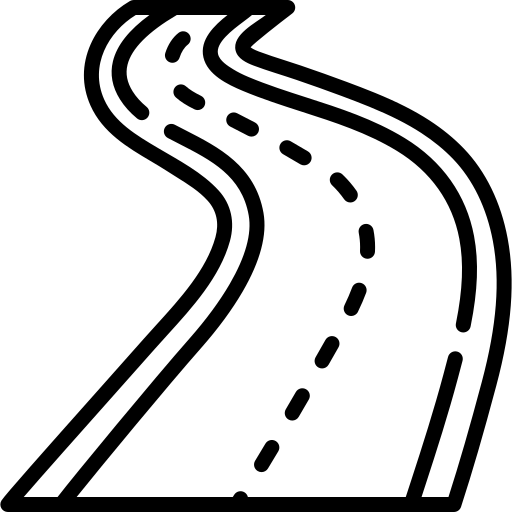
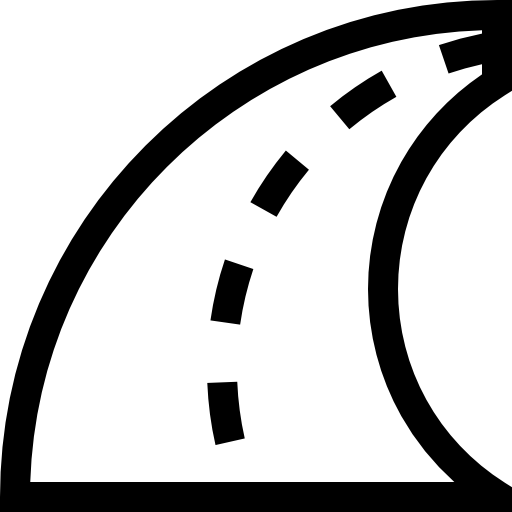
added tab navigator

diff --git a/src/navigation/index.js b/src/navigation/index.js
@@ -1,19 +1,19 @@
 import React from 'react';
+import {Image} from 'react-native';
 import {NavigationContainer} from '@react-navigation/native';
 import {createStackNavigator} from '@react-navigation/stack';
-// import {createBottomTabNavigator} from '@react-navigation/bottom-tabs';
+import {createBottomTabNavigator} from '@react-navigation/bottom-tabs';
 import {colorTheme} from '../theme/Theme';
 
 import WelcomeScreen from '../screens/WelcomeScreen';
 import SelectUserRole from '../screens/UserRoles';
 import DiseasedImageUploadScreen from '../screens/DiseasedImageUploadScreen';
 import SelectedImages from '../screens/SelectedImages';
-// import DogsOnRoads from '../screens/DogsOnRoads';
-// import DogsInShelters from '../screens/DogsInShelters';
-// import {Image} from 'react-native';
+import DogsOnRoads from '../screens/DogsOnRoads';
+import DogsInShelters from '../screens/DogsInShelters';
 
 const stack = createStackNavigator();
-// const Tab = createBottomTabNavigator();
+const Tab = createBottomTabNavigator();
 
 const StackNavigation = () => {
   return (
@@ -59,53 +59,61 @@ const StackNavigation = () => {
             headerTitleStyle: {fontFamily: 'Lexend-Bold'},
           }}
         />
-        {/* <stack.Screen
-            name="TabNavigator"
-            component={TabNavigator}
-            options={{
-              headerShown: false,
-              // headerTitle: '',
-              // headerTintColor: colorTheme.primaryColor,
-              // headerTransparent: true,
-              // headerTitleStyle: {fontFamily: 'Lexend-Bold'},
-            }}
-          /> */}
+        <stack.Screen
+          name="TabNavigator"
+          component={TabNavigator}
+          options={{
+            headerShown: true,
+            headerTitle: '',
+            headerTintColor: colorTheme.primaryColor,
+            headerTransparent: true,
+            headerTitleStyle: {fontFamily: 'Lexend-Bold'},
+          }}
+        />
       </stack.Navigator>
     </NavigationContainer>
   );
 };
 
-// const TabNavigator = () => {
-//   return (
-//     <Tab.Navigator initialRouteName="Shelters">
-//       <Tab.Screen
-//         name="Shelters"
-//         component={DogsInShelters}
-//         options={{
-//           title: 'Shelters',
-//           tabBarIcon: (
-//             <Image
-//               source={require('../images/shelters.png')}
-//               style={{width: 20, height: 20}}
-//             />
-//           ),
-//         }}
-//       />
-//       <Tab.Screen
-//         name="Roads"
-//         component={DogsOnRoads}
-//         options={{
-//           title: 'Streets',
-//           tabBarIcon: (
-//             <Image
-//               source={require('../images/roads.png')}
-//               style={{width: 20, height: 20}}
-//             />
-//           ),
-//         }}
-//       />
-//     </Tab.Navigator>
-//   );
-// };
+const TabNavigator = () => {
+  return (
+    <Tab.Navigator
+      initialRouteName="Shelters"
+      screenOptions={({route}) => ({
+        tabBarActiveTintColor: 'blue',
+        tabBarIcon: ({color, size}) => {
+          let iconSource;
+          if (route.name === 'Shelters') {
+            iconSource = require('../images/shelters.png');
+          } else if (route.name === 'Roads') {
+            iconSource = require('../images/roads.png');
+          }
+          return (
+            <Image
+              source={iconSource}
+              style={{width: size, height: size, tintColor: color}}
+            />
+          );
+        },
+      })}>
+      <Tab.Screen
+        name="Shelters"
+        component={DogsInShelters}
+        options={{
+          title: '',
+          headerTransparent: true,
+        }}
+      />
+      <Tab.Screen
+        name="Roads"
+        component={DogsOnRoads}
+        options={{
+          title: '',
+          headerTransparent: true,
+        }}
+      />
+    </Tab.Navigator>
+  );
+};
 
 export default StackNavigation;

diff --git a/src/screens/DogsInShelters.js b/src/screens/DogsInShelters.js
@@ -1,0 +1,76 @@
+import React from 'react';
+import {StyleSheet, Text, View} from 'react-native';
+import Post from '../components/Post';
+import {textStyles} from '../theme/Theme';
+
+const DogsInShelters = () => {
+  const images = [
+    {
+      source: require('../images/dogImage.png'),
+      location: 'Makuluduwa',
+      distance: '300m',
+    },
+    {
+      source: require('../images/dogImage.png'),
+      location: 'Example Location 2',
+      distance: '500m',
+    },
+    {
+      source: require('../images/dogImage.png'),
+      location: 'Example Location 2',
+      distance: '500m',
+    },
+    {
+      source: require('../images/dogImage.png'),
+      location: 'Example Location 2',
+      distance: '500m',
+    },
+  ];
+
+  return (
+    <View style={styles.dogsInSheltersFeed}>
+      <View style={styles.spacer}></View>
+      <Text style={textStyles.title}>Stray dogs in Dog Shelters</Text>
+      <View style={styles.imageContainer}>
+        {images.map((image, index) => (
+          <View key={index} style={styles.imageWrapper}>
+            <Post
+              imageSource={image.source}
+              location={image.location}
+              distance={image.distance}
+            />
+          </View>
+        ))}
+      </View>
+    </View>
+  );
+};
+
+const styles = StyleSheet.create({
+  dogsInSheltersFeed: {
+    flex: 1,
+    alignItems: 'center',
+  },
+  title: {
+    fontSize: 20,
+    fontWeight: 'bold',
+    marginBottom: 10,
+  },
+  imageContainer: {
+    flexDirection: 'row',
+    flexWrap: 'wrap',
+    justifyContent: 'space-between',
+    paddingHorizontal: 10,
+    width: '100%',
+    marginTop: 20,
+  },
+  imageWrapper: {
+    width: '48%', // Adjust as needed to fit two images per row
+    marginBottom: 10,
+  },
+  spacer: {
+    padding: 20,
+  },
+});
+
+export default DogsInShelters;

diff --git a/src/components/Post.js b/src/components/Post.js
@@ -1,0 +1,42 @@
+import React from 'react';
+import {View, Text, Image, StyleSheet} from 'react-native';
+
+const Post = ({imageSource, location, distance}) => {
+  return (
+    <View style={styles.container}>
+      <Image source={imageSource} style={styles.image} />
+      <View style={styles.locationContainer}>
+        <Text style={styles.locationText}>{location}</Text>
+        <Text style={styles.distanceText}>{distance}</Text>
+      </View>
+    </View>
+  );
+};
+
+const styles = StyleSheet.create({
+  container: {
+    marginBottom: 10,
+  },
+  image: {
+    borderRadius: 10,
+    width: '100%',
+    height: 150, // Adjust height as per your requirement
+    resizeMode: 'cover',
+  },
+  locationContainer: {
+    flexDirection: 'row',
+    alignItems: 'center',
+    marginTop: 5,
+    width: '100%',
+  },
+  locationText: {
+    marginLeft: 5,
+    fontSize: 16,
+  },
+  distanceText: {
+    marginLeft: 'auto',
+    fontSize: 16,
+  },
+});
+
+export default Post;

diff --git a/src/screens/SelectedImages.js b/src/screens/SelectedImages.js
@@ -1,10 +1,11 @@
-import {ImageBackground, StyleSheet, Text, View, Image} from 'react-native';
 import React from 'react';
-import DarkButton from '../components/DarkButton';
+import {ImageBackground, StyleSheet, Text, View, Image} from 'react-native';
 import {useNavigation} from '@react-navigation/native';
 import {colorTheme, textStyles} from '../theme/Theme';
 import SkeletonPlaceholder from 'react-native-skeleton-placeholder';
+
 // import Post from '../components/Post';
+import DarkButton from '../components/DarkButton';
 
 const SelectedImages = () => {
   const issubmitClicked = true;

diff --git a/src/screens/UserRoles.js b/src/screens/UserRoles.js
@@ -27,9 +27,9 @@ const SelectUserRole = () => {
           />
           <LightButton
             buttonTitle={'Dog Adopter'}
-            // onPressAction={() => {
-            //   navigation.navigate('TabNavigator');
-            // }}
+            onPressAction={() => {
+              navigation.navigate('TabNavigator');
+            }}
           />
           <LightButton buttonTitle={'Dog Shelter'} />
           <LightButton buttonTitle={'Dog Veterinarian'} />

diff --git a/src/screens/DogsOnRoads.js b/src/screens/DogsOnRoads.js
@@ -1,0 +1,14 @@
+import {StyleSheet, Text, View} from 'react-native';
+import React from 'react';
+
+const DogsOnRoads = () => {
+  return (
+    <View>
+      <Text>DogsOnRoads</Text>
+    </View>
+  );
+};
+
+export default DogsOnRoads;
+
+const styles = StyleSheet.create({});
